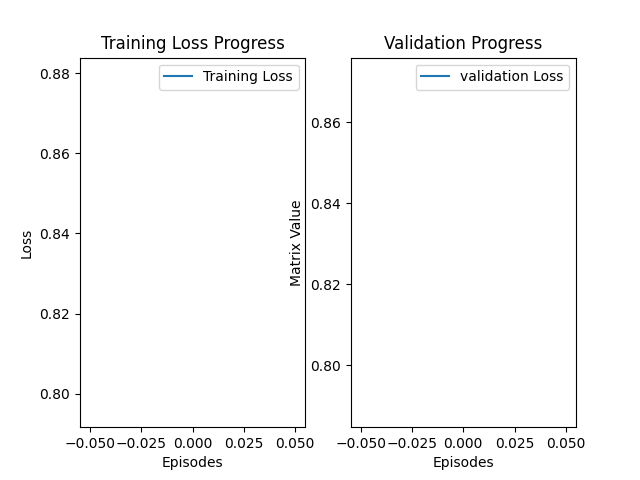
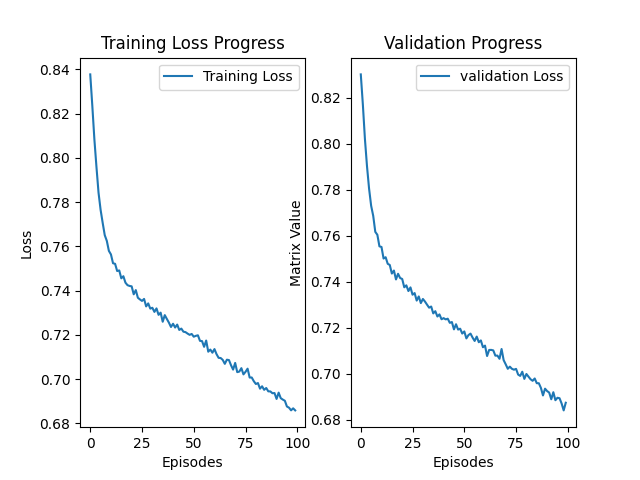
Add files via upload
second

diff --git a/src/cpl_corrected.py b/src/cpl_corrected.py
@@ -407,7 +407,10 @@ def evaluate(model, data_loader):
 def train_cpl(model, optimizer, data_loader, data_loader_val=None,epochs=100, gamma=0.0099, alpha=0.0001, log_dir='./logs', render=False):
     temp_accuracy = 0
     t = 1
-
+    plot_loss = []
+    plot_accu = []
+    plot_prec = []
+    
     writer = SummaryWriter(log_dir)
     model.train()
     loss_function = torch.nn.MSELoss()
@@ -466,7 +469,7 @@ def train_cpl(model, optimizer, data_loader, data_loader_val=None,epochs=100, ga
         avg_loss = total_loss / len(data_loader)
         print(len(data_loader))
         print(f"Epoch {epoch+1}/{epochs}, Loss: {avg_loss}, Selected Trajectory: {selected_trajectory}")
-
+        
         # Evaluate the model
         if (t == 1):
            temp_model = model
@@ -475,6 +478,9 @@ def train_cpl(model, optimizer, data_loader, data_loader_val=None,epochs=100, ga
         accuracy, precision, eval_reward1, eval_reward2 = evaluate(model, data_loader_val)           
                
         print(f"Evaluation - Accuracy: {accuracy}, precision: {precision}, Reward1: {eval_reward1}, Reward2: {eval_reward2}")
+        plot_loss.append(avg_loss)
+        plot_accu.append(accuracy)
+        plot_prec.append(precision)
 
         # Log evaluation metrics
         writer.add_scalar('Eval/Accuracy', accuracy, epoch)
@@ -494,6 +500,7 @@ def train_cpl(model, optimizer, data_loader, data_loader_val=None,epochs=100, ga
                 #print(f"State: {state}, Reward: {reward}, Done: {done}")
 
     writer.close()
+    return plot_loss, plot_accu, plot_prec
 
 
 if __name__ == "__main__":
@@ -539,7 +546,34 @@ if __name__ == "__main__":
     optimizer = optim.Adam(model.parameters(), lr=0.1) # 0.000000001 no change in reward functions. 0.000001 : 32 batch; 0.00001: 32 batch shows changes
  
     # Train the model
-    train_cpl(model, optimizer, data_loader_train,data_loader_val,epochs=100, gamma=0.99, alpha=0.1, log_dir='./logs', render=args.render) #0099
+    loss, accu, prec= train_cpl(model, optimizer, data_loader_train,data_loader_val,epochs=100, gamma=0.99, alpha=0.1, log_dir='./logs', render=args.render) #0099
+
+
+plt.figure(1)
+
+plt.subplot(1,3,1)
+plt.plot(loss, label= "Training Loss")
+plt.xlabel("Episodes")
+plt.ylabel("Loss")
+plt.title("Training Loss Progress")
+plt.legend()
+
+plt.subplot(1,3,2)
+plt.plot(accu, label= "validation Loss")
+plt.xlabel("Episodes")
+plt.ylabel("Accuracy")
+plt.title("Validation Progress")
+plt.legend()
+
+plt.subplot(1,3,3)
+plt.plot(prec, label= "validation Loss")
+plt.xlabel("Episodes")
+plt.ylabel("Precision")
+plt.title("Validation Progress")
+plt.legend()
+
+plt.savefig("CPL_"+args.feedback+".png")
+plt.show()
 
 
 
